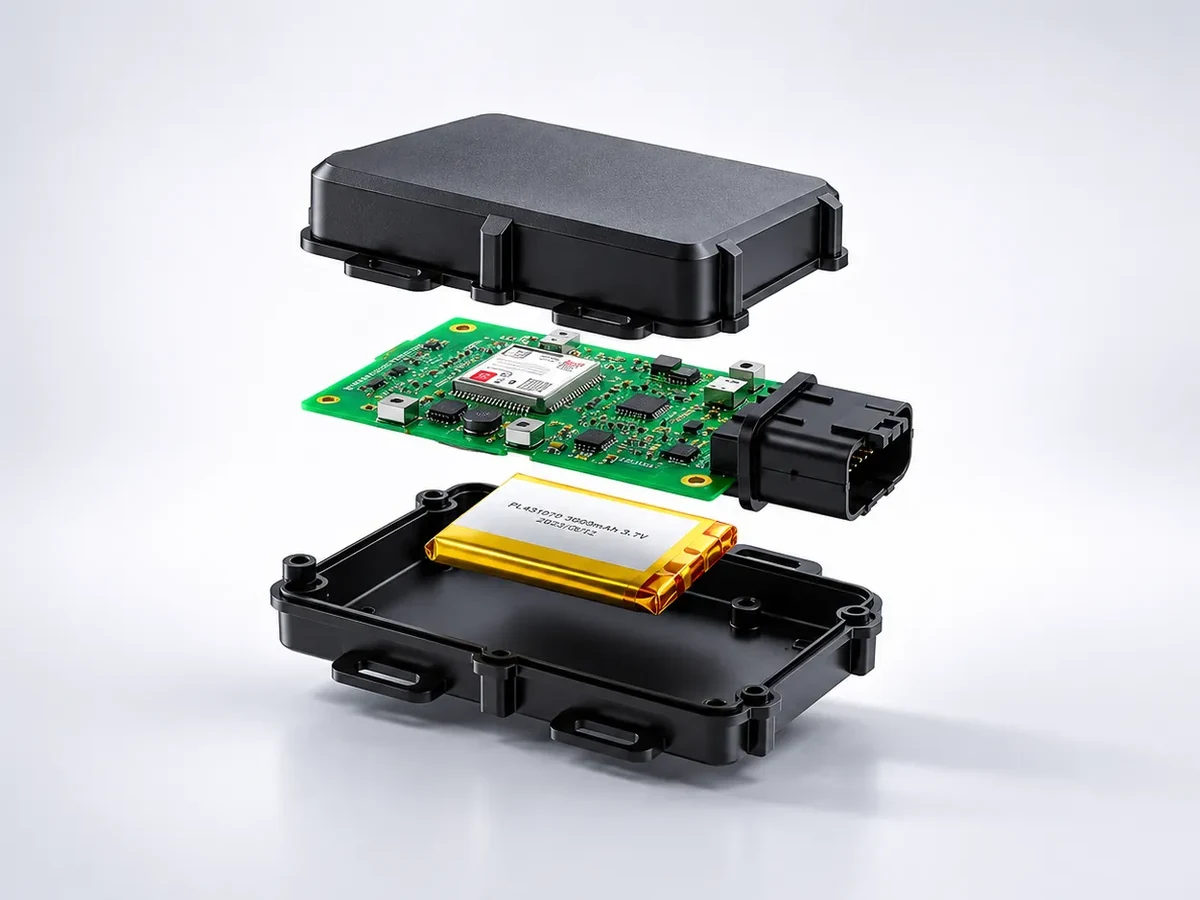
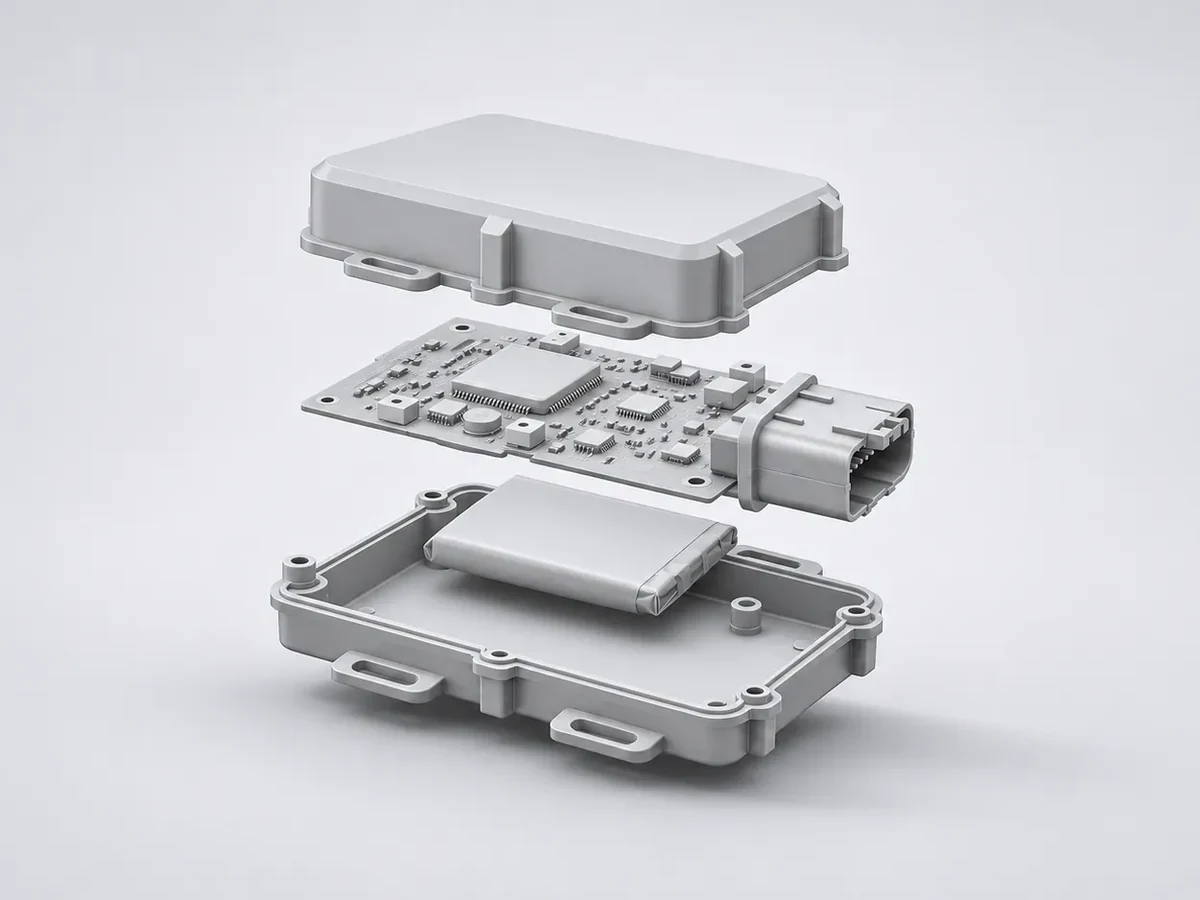
Numbers: grey exploded render replaces the black one
Claude-Session: https://claude.ai/code/session_019hg5JKm3Ajc1VUuZ1vD315

Changed region(s): [[0.2158, 0.1244, 0.8017, 0.9022]]

diff --git a/index.html b/index.html
@@ -148,11 +148,11 @@ p,h1,h2,h3,ul{margin:0}
 .stats-band::after{content:"";grid-column:1;grid-row:1;z-index:1;pointer-events:none;background:linear-gradient(90deg,rgba(238,240,239,0) 0%,rgba(238,240,239,.04) 18%,rgba(238,240,239,.14) 34%,rgba(238,240,239,.3) 50%,rgba(238,240,239,.52) 66%,rgba(238,240,239,.76) 82%,rgba(238,240,239,.92) 93%,#EEF0EF 100%)}
 .stats-band:not(.has-media)::after{display:none}
 @media (min-width:861px){
-  .stats-band{background:#E1E3EA}
+  .stats-band{background:#D8DAE0}
   .stats-band > .default-pic,.stats-band > .photo,.stats-band::after{grid-column:1 / -1}
   .stats-band .photo{object-position:0% 50%}
   .stats-band .stats-col{padding-left:clamp(56px,11.5vw,200px)}
-  .stats-band::after{background:linear-gradient(90deg,rgba(226,228,236,0) 0%,rgba(226,228,236,0) 52%,rgba(226,228,236,.35) 70%,rgba(226,228,236,.45) 100%)}
+  .stats-band::after{background:linear-gradient(90deg,rgba(216,218,224,0) 0%,rgba(216,218,224,0) 52%,rgba(216,218,224,.35) 70%,rgba(216,218,224,.45) 100%)}
 }
 
 @media (min-width:861px) and (max-width:1199px){
@@ -174,10 +174,10 @@ p,h1,h2,h3,ul{margin:0}
 .stats-band.fx .stat.in .stat-l{opacity:1;transform:none}
 .stats-band.fx .stat.done .stat-src{visibility:visible}
 @media (max-width:860px){
-  .stats-band{grid-template-columns:1fr;background:#E2E4EB}
+  .stats-band{grid-template-columns:1fr;background:#DADCE1}
   .stats-band .photo{object-position:50% 50%}
   .stats-band > .default-pic,.stats-band > .photo,.stats-band::after{grid-column:1;grid-row:1;height:auto;aspect-ratio:4/3;min-height:0}
-  .stats-band::after{background:linear-gradient(180deg,rgba(226,228,235,0) 0%,rgba(226,228,235,0) 72%,rgba(226,228,235,.6) 90%,#E2E4EB 100%)}
+  .stats-band::after{background:linear-gradient(180deg,rgba(218,220,225,0) 0%,rgba(218,220,225,0) 72%,rgba(218,220,225,.6) 90%,#DADCE1 100%)}
   .stats-band:not(.has-media) .stats-col{padding-top:48px}
   .stats-col{grid-column:1;grid-row:2;padding:8px 24px 64px}
 }
@@ -777,7 +777,7 @@ p,h1,h2,h3,ul{margin:0}
   </script>
 
   <section id="numbers" class="stats-band has-media" data-sec="Numbers" data-sid="numbers" data-slot="numbers" data-slot-l="Numbers image" data-default-media="images/numbers.webp" aria-label="Canopy in numbers">
-    <picture class="default-pic"><source media="(max-width:860px)" srcset="images/numbers-mobile.webp?v=4"><img class="photo" src="images/numbers.webp?v=10" alt="An exploded view of the Explorer device: lid, circuit board with connector and cellular module, backup battery and base" width="2400" height="1342" loading="lazy" decoding="async"></picture>
+    <picture class="default-pic"><source media="(max-width:860px)" srcset="images/numbers-mobile.webp?v=5"><img class="photo" src="images/numbers.webp?v=11" alt="An exploded view of the Explorer device in light grey: lid, circuit board with connector, backup battery and base" width="2400" height="1342" loading="lazy" decoding="async"></picture>
     <div class="stats-col">
       <dl class="stats-list">
         <div class="stat"><dt class="stat-l" data-k="num.1.l" data-l="Number 1 label">Vehicles connected</dt><dd class="stat-v"><span class="stat-src" data-k="num.1.v" data-l="Number 1">[X]+</span></dd></div>
